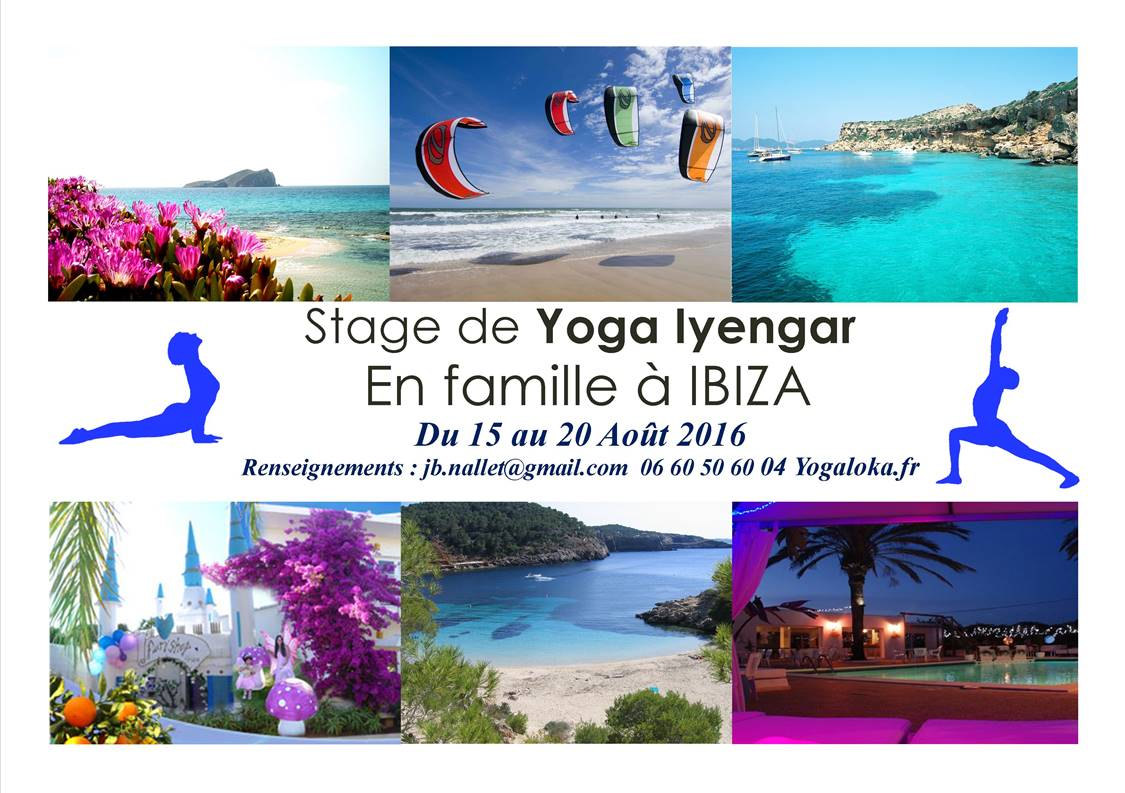
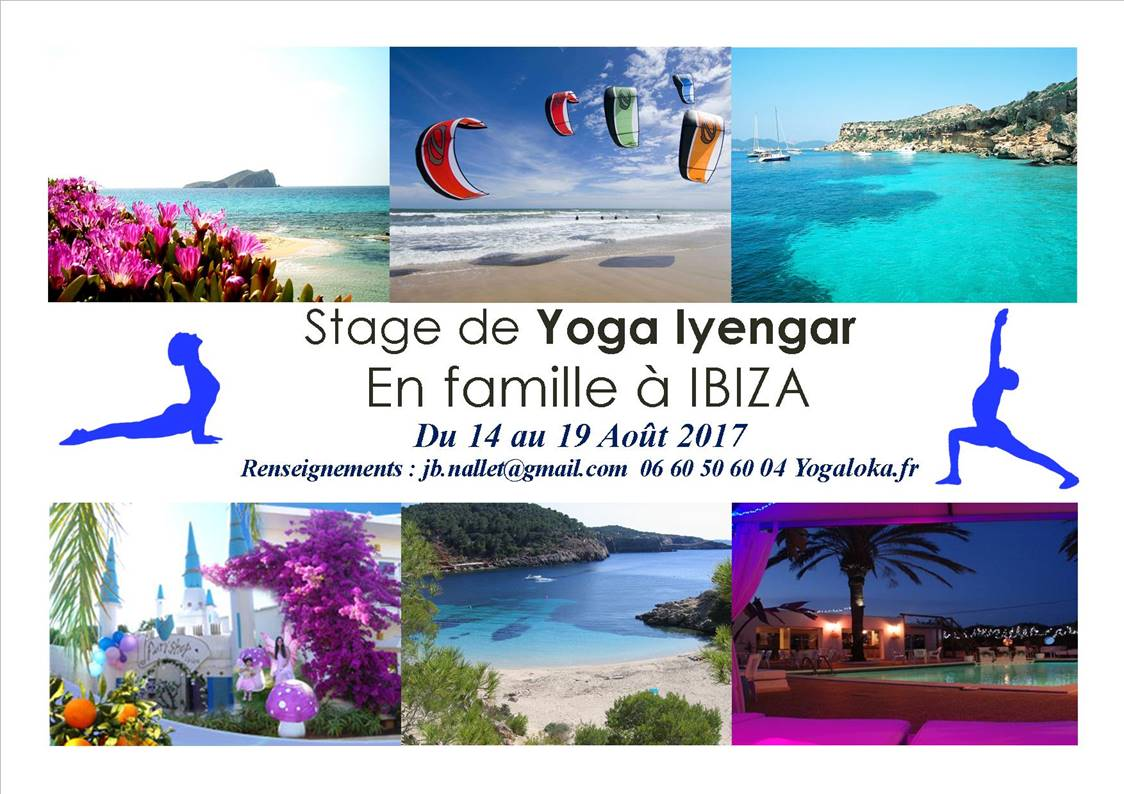
maj 26 08 2016 avec stage

diff --git a/index.html b/index.html
@@ -289,8 +289,7 @@ div.WordSection1
 <div class=WordSection1>
 
 <p class=MsoNormal align=center style='text-align:center'><img width=677
-height=505 id="Image 22" src="index_fichiers/image001.jpg"
-alt="http://yogaloka.fr/index_fichiers/image001.jpg"></p>
+height=503 id="Image 23" src="index_fichiers/image001.jpg"></p>
 
 <p class=MsoNormal>&nbsp;</p>
 
@@ -308,10 +307,9 @@ style='font-size:24.0pt;line-height:200%;font-family:Broadway;color:windowtext'>
 color:#4A452A'><a href="#_Enseignants_/contact"><span style='color:windowtext'>Enseignants/contact</span></a></span><span
 style='font-size:24.0pt;line-height:200%;font-family:Broadway;color:windowtext'>&nbsp;&nbsp;&nbsp;&nbsp;
 <a href="#_Salle_de_pratique"><span style='color:#4A452A'>Salle de pratique</span></a>&nbsp;&nbsp;&nbsp;&nbsp;
-<a href="#_Tarifs_cours_2016"><span style='color:#4A452A'>Tarifs</span></a>&nbsp;&nbsp;&nbsp;&nbsp;
-<a href="#_Liens"><span style='color:#4A452A'>Stage d’été à IBIZA</span></a>&nbsp;&nbsp;&nbsp;&nbsp;
-</span><span class=MsoHyperlink><span style='font-family:Broadway;color:#4A452A'><a
-href="#_Liens_1"><span style='font-size:24.0pt;line-height:200%;color:windowtext'>Liens</span></a></span></span></p>
+<a href="#_Tarifs_cours_2016"><span style='color:#4A452A'>Tarifs</span></a>&nbsp;&nbsp;
+&nbsp;&nbsp;<a href="#_Stage_de_Yoga_1">Stage d’été à IBIZA</a>&nbsp;&nbsp;&nbsp;
+&nbsp;<a href="#_Liens_1">Liens</a></span></p>
 
 <div style='border:none;border-bottom:solid windowtext 1.0pt;padding:0cm 0cm 1.0pt 0cm'>
 
@@ -321,8 +319,8 @@ href="#_Liens_1"><span style='font-size:24.0pt;line-height:200%;color:windowtext
 
 <p class=MsoNormal>&nbsp;</p>
 
-<p class=MsoNormal align=center style='text-align:center'>4 RUE DE LA PROCESSION
-</p>
+<p class=MsoNormal align=center style='text-align:center'>4 RUE DE LA
+PROCESSION </p>
 
 <p class=MsoNormal align=center style='text-align:center'>78100 ST GERMAIN EN
 LAYE</p>
@@ -335,10 +333,11 @@ place du marché</p>
 <p class=MsoNormal align=center style='text-align:center'>A 5 minutes à pied du
 RER A Saint-Germain en Laye</p>
 
+<p class=MsoNormal align=center style='text-align:center'>&nbsp;</p>
+
 <p class=MsoNormal align=center style='text-align:center'><img border=0
-width=482 height=375 id="Image 25" src="index_fichiers/image002.jpg"><img
-border=0 width=376 height=376 id="Image 16" src="index_fichiers/image003.jpg"
-alt="porte yoga78"></p>
+width=482 height=375 id="Image 21" src="index_fichiers/image002.jpg"><img
+border=0 width=376 height=375 id="Image 22" src="index_fichiers/image003.jpg"></p>
 
 <div style='border:none;border-bottom:solid #C00000 1.5pt;padding:0cm 0cm 1.0pt 0cm'>
 
@@ -347,17 +346,12 @@ alt="porte yoga78"></p>
 </div>
 
 <h2><span style='font-family:Wingdings'>l</span> Stage de Yoga Iyengar<sub>®</sub>
-à <a href="#_Liens">IBIZA du 15 au 20 Aout 2016</a></h2>
-
-<h2><span style='font-family:Wingdings'>l</span> Le stage de l’année prochaine
-se déroulera du 14/8 au 19/8</h2>
+à <a href="#_Stage_de_Yoga_1">IBIZA du 14 au 19 Aout 2017</a></h2>
 
 <p class=MsoNormal>&nbsp;</p>
 
-<p class=MsoNormal align=center style='text-align:center'><a href="#_Liens"><span
-style='color:windowtext;text-decoration:none'><img border=0 width=1125
-height=793 id="Image 20" src="index_fichiers/image004.jpg"
-alt="Stage de Yoga Iyengar 2016 08 20 Ibiza Affiche"></span></a></p>
+<p class=MsoNormal align=center style='text-align:center'><img border=0
+width=1124 height=794 id="Image 20" src="index_fichiers/image004.jpg"></p>
 
 <p class=MsoNormal>&nbsp;</p>
 
@@ -449,7 +443,7 @@ href="http://www.bksiyengar.com/" target="_blank">Pour visiter le site officiel
 de BKS Iyengar cliquez ICI</a></p>
 
 <p class=MsoNormal align=center style='margin-bottom:6.0pt;text-align:center'><img
-border=0 width=638 height=484 src="index_fichiers/image004.gif"></p>
+border=0 width=621 height=463 id="Image 1" src="index_fichiers/image005.jpg"></p>
 
 <h2>La méthode de Yoga Iyengar<sub>®</sub></h2>
 
@@ -472,8 +466,8 @@ calme le système nerveux et permet de contrôler les émotions.</p>
 <p class=MsoNormal style='margin-bottom:6.0pt'>&nbsp;</p>
 
 <p class=MsoNormal align=center style='margin-top:6.0pt;text-align:center;
-line-height:normal'><img border=0 width=827 height=468 id="Image 23"
-src="index_fichiers/image005.jpg"></p>
+line-height:normal'><img border=0 width=827 height=468 id="Image 24"
+src="index_fichiers/image006.jpg"></p>
 
 <h2>Les spécificités du Yoga IYENGAR<sub>®</sub></h2>
 
@@ -482,8 +476,9 @@ rigoureuse</b>. L’attention est tout particulièrement portée sur l’alignem
 des différentes parties du corps dans l’espace. </p>
 
 <p class=MsoNormal><b>Les cours sont organisés par niveau</b>, et l’enseignant
-donne progressivement les indications détaillées, claires et précises, qui permettront
-un apprentissage progressif des postures des plus simples aux plus avancées.</p>
+donne progressivement les indications détaillées, claires et précises, qui
+permettront un apprentissage progressif des postures des plus simples aux plus
+avancées.</p>
 
 <p class=MsoNormal><b>Des supports adaptés</b> <b>sont parfois utilisés</b> (<i>chaises,
 blocs de bois, sangles, etc.</i>) lorsqu’une difficulté se présente, ou que le
@@ -496,7 +491,7 @@ plus de précision sur la méthode d’enseignement du Yoga Iyengar® cliquez IC
 <p class=MsoNormal>&nbsp;</p>
 
 <p class=MsoNormal align=center style='text-align:center'><img border=0
-width=829 height=384 src="index_fichiers/image006.jpg"></p>
+width=829 height=384 id="Image 25" src="index_fichiers/image007.jpg"></p>
 
 <p class=MsoNormal align=center style='text-align:center;page-break-after:avoid'>&nbsp;</p>
 
@@ -534,7 +529,7 @@ relaxé, stable et régénéré</b>.</p>
 normal'>&nbsp;</p>
 
 <p class=MsoNormal align=center style='text-align:center;page-break-after:avoid'><img
-border=0 width=810 height=456 src="index_fichiers/image007.jpg"></p>
+border=0 width=810 height=456 id="Image 26" src="index_fichiers/image008.jpg"></p>
 
 <h2>Qui peut pratiquer le Yoga IYENGAR<sub>®</sub> ?</h2>
 
@@ -557,8 +552,8 @@ particulier.</p>
 <div style='border:none;border-left:solid #984806 1.0pt;padding:0cm 0cm 0cm 4.0pt;
 margin-left:1.0cm'>
 
-<p class=MsoNormal><img border=0 width=262 height=276
-src="index_fichiers/image008.gif"></p>
+<p class=MsoNormal><img border=0 width=262 height=276 id="Image 27"
+src="index_fichiers/image009.gif"></p>
 
 <p class=MsoNormal><b>Diplômée de l’Institut de&nbsp;Yoga Iyengar® à Pune en
 Inde en 2007</b></p>
@@ -584,8 +579,8 @@ href="mailto:rachel.bossard@gmail.com">rachel.bossard@gmail.com</a> </p>
 <div style='border:none;border-left:solid #984806 1.0pt;padding:0cm 0cm 0cm 4.0pt;
 margin-left:1.0cm'>
 
-<p class=MsoNormal><img border=0 width=258 height=334
-src="index_fichiers/image009.gif"></p>
+<p class=MsoNormal><img border=0 width=259 height=335 id="Image 28"
+src="index_fichiers/image010.gif"></p>
 
 <p class=MsoNormal><b>Diplômé de l’Institut de&nbsp;Yoga Iyengar<sub>®</sub> à
 Pune en Inde en 2007.</b></p>
@@ -620,7 +615,7 @@ target="_blank">Pour plus de renseignements sur les directives éthiques des
 enseignants de Yoga Iyengar<sub>®</sub>, cliquez ici</a></i></p>
 
 <p class=MsoNormal align=center style='text-align:center'><img border=0
-width=118 height=92 src="index_fichiers/image010.gif" alt="JPEG - 7.7&nbsp;ko"></p>
+width=118 height=90 src="index_fichiers/image011.gif"></p>
 
 <div style='border:none;border-bottom:solid #C00000 1.5pt;padding:0cm 0cm 1.0pt 0cm'>
 
@@ -641,9 +636,9 @@ souhaitez</p>
 
 <p class=MsoNormal>&nbsp;</p>
 
-<p class=MsoNormal align=center style='text-align:center'><img border=0
-width=391 height=310 src="index_fichiers/image011.gif">&nbsp;&nbsp; <img
-border=0 width=388 height=307 src="index_fichiers/image012.gif"></p>
+<p class=MsoNormal align=center style='text-align:center'>&nbsp;&nbsp; <img
+border=0 width=311 height=245 id="Image 29" src="index_fichiers/image012.gif"><img
+border=0 width=311 height=245 id="Image 38" src="index_fichiers/image013.gif"></p>
 
 <div style='border:none;border-bottom:solid #C00000 1.5pt;padding:0cm 0cm 1.0pt 0cm'>
 
@@ -684,50 +679,36 @@ avant de vous décider</i></p>
 
 <p class=MsoNormal align=center style='text-align:center'><a
 name="_Stage_de_Yoga"></a><a name="_Nous_contacter"></a><img border=0
-width=388 height=625 src="index_fichiers/image017.gif"></p>
+width=580 height=520 id="Image 2" src="index_fichiers/image014.jpg"></p>
 
 <p class=MsoNormal align=center style='text-align:center'>&nbsp;</p>
 
-<p class=MsoNormal align=center style='text-align:center'>&nbsp;</p>
-
-<p class=MsoNormal align=center style='text-align:center'>&nbsp;</p>
-
-<p class=MsoNormal align=center style='text-align:center'>&nbsp;</p>
-
-<p class=MsoNormal align=center style='text-align:center'>&nbsp;</p>
-
-<p class=MsoNormal align=center style='text-align:center'>&nbsp;</p>
-
-<p class=MsoNormal align=center style='text-align:center'>&nbsp;</p>
-
-<p class=MsoNormal align=center style='text-align:center'>&nbsp;</p>
+<p class=MsoNormal align=center style='text-align:center'>&nbsp;&nbsp;</p>
 
 <div style='border:none;border-bottom:solid #984806 1.0pt;padding:0cm 0cm 1.0pt 0cm'>
 
-<h1><a name="_Liens"></a>Stage de Yoga Iyengar<sub>®</sub> en famille à IBIZA
-du 15 au 20 Aout 2016</h1>
+<h1><a name="_Stage_de_Yoga_1"></a>Stage de Yoga Iyengar® en famille à IBIZA du
+14 au 19 Aout 2017</h1>
 
 </div>
 
-<h2>Pour les confirmés et les débutants</h2>
-
-<p class=MsoNormal>&nbsp;</p>
+<h2><a name="_Liens"></a>Pour les confirmés et les débutants</h2>
 
 <h3><a name="_Formule_pratiquant_confirmé"></a>Formule pratiquant confirmé</h3>
 
 <div style='border:none;border-left:solid #984806 1.0pt;padding:0cm 0cm 0cm 4.0pt;
 margin-left:1.0cm'>
 
-<p class=MsoNormal>Pour suivre ce stage, il faudra avoir suivi au moins une
-année de pratique de la méthode Iyengar<sub>®</sub></p>
+<p class=MsoNormal>Pour suivre ce stage, il faudra avoir suivi au moins une année
+de pratique de la méthode Iyengar<sub>®</sub></p>
 
 <p class=MsoNormal><b>Le matin&nbsp;: de 9h à 11h30 pratique des postures</b></p>
 
 <p class=MsoNormal><b>Le soir&nbsp;: de 18h à 20H postures inversées et
 pranayama</b></p>
 
-<p class=MsoNormal><i>Pour les participants qui ne sont pas des élèves réguliers
-du centre, un entretien préalable est préférable</i></p>
+<p class=MsoNormal><i>Pour les participants qui ne sont pas des élèves
+réguliers du centre, un entretien préalable est préférable</i></p>
 
 </div>
 
@@ -768,25 +749,30 @@ Santa Eularia del&nbsp;Rio IBIZA Espagne. <i>Tel:(+34) 971330 452</i></p>
 target="_blank">http://www.cielazulibiza.com/lang/fr</a></p>
 
 <p class=MsoNormal align=center style='text-align:center;line-height:normal'><img
-border=0 width=890 height=318 src="index_fichiers/image013.gif"
-alt=presentation></p>
+border=0 width=867 height=612 id="Image 6" src="index_fichiers/image015.jpg"></p>
 
 <h3>Logement</h3>
 
 <p class=MsoNormal>Tous les studios et appartements d’une ou deux chambres sont
 dotés d’une cuisine équipée, d’une salle de bains et d’une terrasse.</p>
 
+<p class=MsoNormal align=center style='text-align:center'><img border=0
+width=867 height=581 id="Image 8" src="index_fichiers/image016.jpg"></p>
+
 <h3>Commodités</h3>
 
 <p class=MsoNormal>Vous trouverez sur place un <b>snack-bar</b> et ses cocktails
 de fruits frais, une salle de séminaire, une<b> piscine</b>, une <b>boutique</b>,
 un poste <b>internet-wifi</b>, et divers services&nbsp;: <b>gardes d’enfants</b>,
-<b>massages</b>, <b>animations</b> et <b>spectacles</b>.</p>
+<b>cours de natation</b>, <b>massages</b>, <b>animations</b> et <b>spectacles</b>.</p>
+
+<p class=MsoNormal align=center style='text-align:center'><img border=0
+width=867 height=651 id="Image 9" src="index_fichiers/image017.jpg"></p>
 
 <h3>Plage et environs</h3>
 
 <p class=MsoNormal align=center style='text-align:center'><img border=0
-width=879 height=668 src="index_fichiers/image014.gif" alt="Es Cana Ibiza"></p>
+width=863 height=574 id="Image 10" src="index_fichiers/image018.jpg"></p>
 
 <p class=MsoNormal>A quelques dizaines de mètres, la <b>Cala Martina</b>, très
 belle plage de sable doré, vous propose ses restaurants au bord de l’eau,
@@ -794,21 +780,46 @@ chaises longues, club de <b>plongée</b>, <b>club de voile</b>, <b>windsurf</b>,
 <b>parachute ascentionnel, kite-surf</b>, <b>pédalos</b> et autres sports
 aquatiques.</p>
 
+<p class=MsoNormal>&nbsp;</p>
+
 <p class=MsoNormal align=center style='text-align:center'><img border=0
-width=883 height=602 src="index_fichiers/image015.gif"
-alt="http://www.spainted.com/ibiza/beaches-of-ibiza/cala-martina.jpg"></p>
+width=215 height=174 id="Image 12" src="index_fichiers/image019.jpg"><img
+border=0 width=230 height=174 id="Image 13" src="index_fichiers/image020.jpg"><img
+border=0 width=254 height=172 id="Image 14" src="index_fichiers/image021.jpg"><img
+border=0 width=215 height=172 id="Image 15" src="index_fichiers/image022.jpg"><img
+border=0 width=228 height=171 id="Image 30" src="index_fichiers/image023.jpg"></p>
+
+<p class=MsoNormal align=center style='text-align:center'>&nbsp;</p>
+
+<p class=MsoNormal>A 3 km vous trouverez la magnifique plage de plage de <b>Cala
+nova</b></p>
+
+<p class=MsoNormal align=center style='text-align:center'><img border=0
+width=877 height=493 id="Image 37" src="index_fichiers/image024.jpg"></p>
 
 <p class=MsoNormal>A 1,50 km, découvrez le petit <b>port de Es Canar</b> très
 animé le soir avec ses nombreux bars et restaurants et son marché hippie
 (ouvert les mercredis).</p>
 
 <p class=MsoNormal align=center style='text-align:center'><img border=0
-width=870 height=595 src="index_fichiers/image016.gif"
-alt="Villas in Santa Eulia"></p>
+width=501 height=358 id="Image 31" src="index_fichiers/image025.jpg"></p>
 
 <p class=MsoNormal>A 4 km, <b>Santa-Eularia</b>, charmante petite ville
 portuaire, vous offre tous les services et un accès rapide à <b>l’Ile de
 Formentera. </b></p>
+
+<p class=MsoNormal align=center style='text-align:center'><img border=0
+width=931 height=411 id="Image 36" src="index_fichiers/image026.jpg"></p>
+
+<p class=MsoNormal align=center style='text-align:center'><img border=0
+width=550 height=412 id="Image 32" src="index_fichiers/image027.jpg"></p>
+
+<p class=MsoNormal>A un peu plus d’une heure en bateau, vous pourrez visiter le
+<b>fort d’IBIZA</b> et la <b>vieille ville</b></p>
+
+<p class=MsoNormal align=center style='text-align:center'><img border=0
+width=594 height=396 id="Image 35" src="index_fichiers/image028.jpg"><img
+border=0 width=581 height=401 id="Image 34" src="index_fichiers/image029.jpg"></p>
 
 <h2>Tarifs stage</h2>
 
@@ -906,11 +917,9 @@ l’année, pensez à réserver rapidement</b></p>
 
 <div style='border:none;border-bottom:solid #984806 1.0pt;padding:0cm 0cm 1.0pt 0cm'>
 
-<h1><a name="_Liens_1"></a>Liens</h1>
+<h1><a name="_Liens_1"></a>Liens&nbsp;</h1>
 
 </div>
-
-<p class=MsoNormal>&nbsp;</p>
 
 <h2>Yoga</h2>
 
@@ -989,7 +998,7 @@ target="_blank">https://www.facebook.com/pages/Comme-Un-Monde-D%C3%A9co-Ethnique
 <p class=MsoNormal><b>&nbsp;</b></p>
 
 <p class=MsoNormal align=center style='text-align:center'><img border=0
-width=1014 height=610 src="index_fichiers/image008.jpg"></p>
+width=1015 height=609 id="Image 11" src="index_fichiers/image030.jpg"></p>
 
 </div>
 
